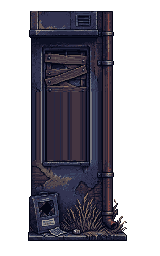
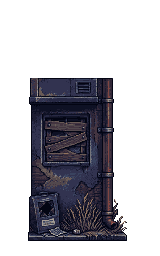
Revert wall-panel height stretching (a595f6b) — Chief wants new art, not stretched art
Reverts the 20 nc_building_wall PNGs + their manifest trim entries back
to the bottom-aligned-only state (779d95c): each panel keeps its own
real height (132-230px content), bottom edges still aligned
(bottom_pad=15 across the family, unchanged from the earlier fix).

The uniform-height version self-sourced body-filler by duplicating a
flat texture row inside each panel — technically worked and verified
visually, but Chief does not want stretched/patched existing art.
Correct path forward is new PixelLab-generated filler/transition
pieces (per-family tileable body strips), not pixel-duplication on
existing panels. That generation work is next, pending Chief's call on
target height and per-family vs universal filler style.

run_all.mjs: 2341 passed / 87 failed — same known baseline (Chief's own
live level1 Builder saves shift fixture-dependent prop_sources
assertions; unrelated to this revert).

Changed region(s): [[0.1562, 0.0312, 0.7188, 0.625]]

diff --git a/editor.html b/editor.html
@@ -231,7 +231,7 @@
   #parity-status { font-family:monospace; font-size:10px; letter-spacing:0.3px; line-height:1.6; margin-bottom:6px; }
 
 </style>
-<link rel="stylesheet" href="editor/workspace.css?v=37b97cc7c08136d8">
+<link rel="stylesheet" href="editor/workspace.css?v=e23c67e3d248f550">
 </head>
 <body>
 <div id="editor-root">
@@ -622,50 +622,50 @@
 <script type="importmap">
 {
   "imports": {
-    "./editor/actions.js": "./editor/actions.js?v=37b97cc7c08136d8",
-    "./editor/assets.js": "./editor/assets.js?v=37b97cc7c08136d8",
-    "./editor/buildinfo.js": "./editor/buildinfo.js?v=37b97cc7c08136d8",
-    "./editor/clipboard.js": "./editor/clipboard.js?v=37b97cc7c08136d8",
-    "./editor/facade.js": "./editor/facade.js?v=37b97cc7c08136d8",
-    "./editor/generator.js": "./editor/generator.js?v=37b97cc7c08136d8",
-    "./editor/hero-lab.js": "./editor/hero-lab.js?v=37b97cc7c08136d8",
-    "./editor/history.js": "./editor/history.js?v=37b97cc7c08136d8",
-    "./editor/level-shape.js": "./editor/level-shape.js?v=37b97cc7c08136d8",
-    "./editor/localstore.js": "./editor/localstore.js?v=37b97cc7c08136d8",
-    "./editor/main.js": "./editor/main.js?v=37b97cc7c08136d8",
-    "./editor/persistence.js": "./editor/persistence.js?v=37b97cc7c08136d8",
-    "./editor/renderer.js": "./editor/renderer.js?v=37b97cc7c08136d8",
-    "./editor/selection.js": "./editor/selection.js?v=37b97cc7c08136d8",
-    "./editor/snapshots.js": "./editor/snapshots.js?v=37b97cc7c08136d8",
-    "./editor/snapshotui.js": "./editor/snapshotui.js?v=37b97cc7c08136d8",
-    "./editor/state.js": "./editor/state.js?v=37b97cc7c08136d8",
-    "./editor/tools.js": "./editor/tools.js?v=37b97cc7c08136d8",
-    "./editor/workspace.js": "./editor/workspace.js?v=37b97cc7c08136d8",
-    "./src_scroll/background.js": "./src_scroll/background.js?v=37b97cc7c08136d8",
-    "./src_scroll/camera.js": "./src_scroll/camera.js?v=37b97cc7c08136d8",
-    "./src_scroll/city-drones.js": "./src_scroll/city-drones.js?v=37b97cc7c08136d8",
-    "./src_scroll/constants.js": "./src_scroll/constants.js?v=37b97cc7c08136d8",
-    "./src_scroll/drone-weapons.js": "./src_scroll/drone-weapons.js?v=37b97cc7c08136d8",
-    "./src_scroll/electricity.js": "./src_scroll/electricity.js?v=37b97cc7c08136d8",
-    "./src_scroll/energy-hud.js": "./src_scroll/energy-hud.js?v=37b97cc7c08136d8",
-    "./src_scroll/entities.js": "./src_scroll/entities.js?v=37b97cc7c08136d8",
-    "./src_scroll/hero-render.js": "./src_scroll/hero-render.js?v=37b97cc7c08136d8",
-    "./src_scroll/hero-sprites.js": "./src_scroll/hero-sprites.js?v=37b97cc7c08136d8",
-    "./src_scroll/input.js": "./src_scroll/input.js?v=37b97cc7c08136d8",
-    "./src_scroll/level.js": "./src_scroll/level.js?v=37b97cc7c08136d8",
-    "./src_scroll/levelsig.js": "./src_scroll/levelsig.js?v=37b97cc7c08136d8",
-    "./src_scroll/main.js": "./src_scroll/main.js?v=37b97cc7c08136d8",
-    "./src_scroll/player.js": "./src_scroll/player.js?v=37b97cc7c08136d8",
-    "./src_scroll/render.js": "./src_scroll/render.js?v=37b97cc7c08136d8",
-    "./src_scroll/source-visuals.js": "./src_scroll/source-visuals.js?v=37b97cc7c08136d8",
-    "./src_scroll/sprites.js": "./src_scroll/sprites.js?v=37b97cc7c08136d8",
-    "./src_scroll/terrain-policy.js": "./src_scroll/terrain-policy.js?v=37b97cc7c08136d8",
-    "./src_scroll/ui.js": "./src_scroll/ui.js?v=37b97cc7c08136d8",
-    "./src_scroll/viewport.js": "./src_scroll/viewport.js?v=37b97cc7c08136d8"
+    "./editor/actions.js": "./editor/actions.js?v=e23c67e3d248f550",
+    "./editor/assets.js": "./editor/assets.js?v=e23c67e3d248f550",
+    "./editor/buildinfo.js": "./editor/buildinfo.js?v=e23c67e3d248f550",
+    "./editor/clipboard.js": "./editor/clipboard.js?v=e23c67e3d248f550",
+    "./editor/facade.js": "./editor/facade.js?v=e23c67e3d248f550",
+    "./editor/generator.js": "./editor/generator.js?v=e23c67e3d248f550",
+    "./editor/hero-lab.js": "./editor/hero-lab.js?v=e23c67e3d248f550",
+    "./editor/history.js": "./editor/history.js?v=e23c67e3d248f550",
+    "./editor/level-shape.js": "./editor/level-shape.js?v=e23c67e3d248f550",
+    "./editor/localstore.js": "./editor/localstore.js?v=e23c67e3d248f550",
+    "./editor/main.js": "./editor/main.js?v=e23c67e3d248f550",
+    "./editor/persistence.js": "./editor/persistence.js?v=e23c67e3d248f550",
+    "./editor/renderer.js": "./editor/renderer.js?v=e23c67e3d248f550",
+    "./editor/selection.js": "./editor/selection.js?v=e23c67e3d248f550",
+    "./editor/snapshots.js": "./editor/snapshots.js?v=e23c67e3d248f550",
+    "./editor/snapshotui.js": "./editor/snapshotui.js?v=e23c67e3d248f550",
+    "./editor/state.js": "./editor/state.js?v=e23c67e3d248f550",
+    "./editor/tools.js": "./editor/tools.js?v=e23c67e3d248f550",
+    "./editor/workspace.js": "./editor/workspace.js?v=e23c67e3d248f550",
+    "./src_scroll/background.js": "./src_scroll/background.js?v=e23c67e3d248f550",
+    "./src_scroll/camera.js": "./src_scroll/camera.js?v=e23c67e3d248f550",
+    "./src_scroll/city-drones.js": "./src_scroll/city-drones.js?v=e23c67e3d248f550",
+    "./src_scroll/constants.js": "./src_scroll/constants.js?v=e23c67e3d248f550",
+    "./src_scroll/drone-weapons.js": "./src_scroll/drone-weapons.js?v=e23c67e3d248f550",
+    "./src_scroll/electricity.js": "./src_scroll/electricity.js?v=e23c67e3d248f550",
+    "./src_scroll/energy-hud.js": "./src_scroll/energy-hud.js?v=e23c67e3d248f550",
+    "./src_scroll/entities.js": "./src_scroll/entities.js?v=e23c67e3d248f550",
+    "./src_scroll/hero-render.js": "./src_scroll/hero-render.js?v=e23c67e3d248f550",
+    "./src_scroll/hero-sprites.js": "./src_scroll/hero-sprites.js?v=e23c67e3d248f550",
+    "./src_scroll/input.js": "./src_scroll/input.js?v=e23c67e3d248f550",
+    "./src_scroll/level.js": "./src_scroll/level.js?v=e23c67e3d248f550",
+    "./src_scroll/levelsig.js": "./src_scroll/levelsig.js?v=e23c67e3d248f550",
+    "./src_scroll/main.js": "./src_scroll/main.js?v=e23c67e3d248f550",
+    "./src_scroll/player.js": "./src_scroll/player.js?v=e23c67e3d248f550",
+    "./src_scroll/render.js": "./src_scroll/render.js?v=e23c67e3d248f550",
+    "./src_scroll/source-visuals.js": "./src_scroll/source-visuals.js?v=e23c67e3d248f550",
+    "./src_scroll/sprites.js": "./src_scroll/sprites.js?v=e23c67e3d248f550",
+    "./src_scroll/terrain-policy.js": "./src_scroll/terrain-policy.js?v=e23c67e3d248f550",
+    "./src_scroll/ui.js": "./src_scroll/ui.js?v=e23c67e3d248f550",
+    "./src_scroll/viewport.js": "./src_scroll/viewport.js?v=e23c67e3d248f550"
   }
 }
 </script>
 <!-- END GENERATED EDITOR MODULE VERSIONS -->
-<script type="module" src="editor/main.js?v=37b97cc7c08136d8"></script>
+<script type="module" src="editor/main.js?v=e23c67e3d248f550"></script>
 </body>
 </html>

diff --git a/hero-lab.html b/hero-lab.html
@@ -37,50 +37,50 @@
 <script type="importmap">
 {
   "imports": {
-    "./editor/actions.js": "./editor/actions.js?v=37b97cc7c08136d8",
-    "./editor/assets.js": "./editor/assets.js?v=37b97cc7c08136d8",
-    "./editor/buildinfo.js": "./editor/buildinfo.js?v=37b97cc7c08136d8",
-    "./editor/clipboard.js": "./editor/clipboard.js?v=37b97cc7c08136d8",
-    "./editor/facade.js": "./editor/facade.js?v=37b97cc7c08136d8",
-    "./editor/generator.js": "./editor/generator.js?v=37b97cc7c08136d8",
-    "./editor/hero-lab.js": "./editor/hero-lab.js?v=37b97cc7c08136d8",
-    "./editor/history.js": "./editor/history.js?v=37b97cc7c08136d8",
-    "./editor/level-shape.js": "./editor/level-shape.js?v=37b97cc7c08136d8",
-    "./editor/localstore.js": "./editor/localstore.js?v=37b97cc7c08136d8",
-    "./editor/main.js": "./editor/main.js?v=37b97cc7c08136d8",
-    "./editor/persistence.js": "./editor/persistence.js?v=37b97cc7c08136d8",
-    "./editor/renderer.js": "./editor/renderer.js?v=37b97cc7c08136d8",
-    "./editor/selection.js": "./editor/selection.js?v=37b97cc7c08136d8",
-    "./editor/snapshots.js": "./editor/snapshots.js?v=37b97cc7c08136d8",
-    "./editor/snapshotui.js": "./editor/snapshotui.js?v=37b97cc7c08136d8",
-    "./editor/state.js": "./editor/state.js?v=37b97cc7c08136d8",
-    "./editor/tools.js": "./editor/tools.js?v=37b97cc7c08136d8",
-    "./editor/workspace.js": "./editor/workspace.js?v=37b97cc7c08136d8",
-    "./src_scroll/background.js": "./src_scroll/background.js?v=37b97cc7c08136d8",
-    "./src_scroll/camera.js": "./src_scroll/camera.js?v=37b97cc7c08136d8",
-    "./src_scroll/city-drones.js": "./src_scroll/city-drones.js?v=37b97cc7c08136d8",
-    "./src_scroll/constants.js": "./src_scroll/constants.js?v=37b97cc7c08136d8",
-    "./src_scroll/drone-weapons.js": "./src_scroll/drone-weapons.js?v=37b97cc7c08136d8",
-    "./src_scroll/electricity.js": "./src_scroll/electricity.js?v=37b97cc7c08136d8",
-    "./src_scroll/energy-hud.js": "./src_scroll/energy-hud.js?v=37b97cc7c08136d8",
-    "./src_scroll/entities.js": "./src_scroll/entities.js?v=37b97cc7c08136d8",
-    "./src_scroll/hero-render.js": "./src_scroll/hero-render.js?v=37b97cc7c08136d8",
-    "./src_scroll/hero-sprites.js": "./src_scroll/hero-sprites.js?v=37b97cc7c08136d8",
-    "./src_scroll/input.js": "./src_scroll/input.js?v=37b97cc7c08136d8",
-    "./src_scroll/level.js": "./src_scroll/level.js?v=37b97cc7c08136d8",
-    "./src_scroll/levelsig.js": "./src_scroll/levelsig.js?v=37b97cc7c08136d8",
-    "./src_scroll/main.js": "./src_scroll/main.js?v=37b97cc7c08136d8",
-    "./src_scroll/player.js": "./src_scroll/player.js?v=37b97cc7c08136d8",
-    "./src_scroll/render.js": "./src_scroll/render.js?v=37b97cc7c08136d8",
-    "./src_scroll/source-visuals.js": "./src_scroll/source-visuals.js?v=37b97cc7c08136d8",
-    "./src_scroll/sprites.js": "./src_scroll/sprites.js?v=37b97cc7c08136d8",
-    "./src_scroll/terrain-policy.js": "./src_scroll/terrain-policy.js?v=37b97cc7c08136d8",
-    "./src_scroll/ui.js": "./src_scroll/ui.js?v=37b97cc7c08136d8",
-    "./src_scroll/viewport.js": "./src_scroll/viewport.js?v=37b97cc7c08136d8"
+    "./editor/actions.js": "./editor/actions.js?v=e23c67e3d248f550",
+    "./editor/assets.js": "./editor/assets.js?v=e23c67e3d248f550",
+    "./editor/buildinfo.js": "./editor/buildinfo.js?v=e23c67e3d248f550",
+    "./editor/clipboard.js": "./editor/clipboard.js?v=e23c67e3d248f550",
+    "./editor/facade.js": "./editor/facade.js?v=e23c67e3d248f550",
+    "./editor/generator.js": "./editor/generator.js?v=e23c67e3d248f550",
+    "./editor/hero-lab.js": "./editor/hero-lab.js?v=e23c67e3d248f550",
+    "./editor/history.js": "./editor/history.js?v=e23c67e3d248f550",
+    "./editor/level-shape.js": "./editor/level-shape.js?v=e23c67e3d248f550",
+    "./editor/localstore.js": "./editor/localstore.js?v=e23c67e3d248f550",
+    "./editor/main.js": "./editor/main.js?v=e23c67e3d248f550",
+    "./editor/persistence.js": "./editor/persistence.js?v=e23c67e3d248f550",
+    "./editor/renderer.js": "./editor/renderer.js?v=e23c67e3d248f550",
+    "./editor/selection.js": "./editor/selection.js?v=e23c67e3d248f550",
+    "./editor/snapshots.js": "./editor/snapshots.js?v=e23c67e3d248f550",
+    "./editor/snapshotui.js": "./editor/snapshotui.js?v=e23c67e3d248f550",
+    "./editor/state.js": "./editor/state.js?v=e23c67e3d248f550",
+    "./editor/tools.js": "./editor/tools.js?v=e23c67e3d248f550",
+    "./editor/workspace.js": "./editor/workspace.js?v=e23c67e3d248f550",
+    "./src_scroll/background.js": "./src_scroll/background.js?v=e23c67e3d248f550",
+    "./src_scroll/camera.js": "./src_scroll/camera.js?v=e23c67e3d248f550",
+    "./src_scroll/city-drones.js": "./src_scroll/city-drones.js?v=e23c67e3d248f550",
+    "./src_scroll/constants.js": "./src_scroll/constants.js?v=e23c67e3d248f550",
+    "./src_scroll/drone-weapons.js": "./src_scroll/drone-weapons.js?v=e23c67e3d248f550",
+    "./src_scroll/electricity.js": "./src_scroll/electricity.js?v=e23c67e3d248f550",
+    "./src_scroll/energy-hud.js": "./src_scroll/energy-hud.js?v=e23c67e3d248f550",
+    "./src_scroll/entities.js": "./src_scroll/entities.js?v=e23c67e3d248f550",
+    "./src_scroll/hero-render.js": "./src_scroll/hero-render.js?v=e23c67e3d248f550",
+    "./src_scroll/hero-sprites.js": "./src_scroll/hero-sprites.js?v=e23c67e3d248f550",
+    "./src_scroll/input.js": "./src_scroll/input.js?v=e23c67e3d248f550",
+    "./src_scroll/level.js": "./src_scroll/level.js?v=e23c67e3d248f550",
+    "./src_scroll/levelsig.js": "./src_scroll/levelsig.js?v=e23c67e3d248f550",
+    "./src_scroll/main.js": "./src_scroll/main.js?v=e23c67e3d248f550",
+    "./src_scroll/player.js": "./src_scroll/player.js?v=e23c67e3d248f550",
+    "./src_scroll/render.js": "./src_scroll/render.js?v=e23c67e3d248f550",
+    "./src_scroll/source-visuals.js": "./src_scroll/source-visuals.js?v=e23c67e3d248f550",
+    "./src_scroll/sprites.js": "./src_scroll/sprites.js?v=e23c67e3d248f550",
+    "./src_scroll/terrain-policy.js": "./src_scroll/terrain-policy.js?v=e23c67e3d248f550",
+    "./src_scroll/ui.js": "./src_scroll/ui.js?v=e23c67e3d248f550",
+    "./src_scroll/viewport.js": "./src_scroll/viewport.js?v=e23c67e3d248f550"
   }
 }
 </script>
 <!-- END GENERATED HERO LAB MODULE VERSIONS -->
-<script type="module" src="editor/hero-lab.js?v=37b97cc7c08136d8"></script>
+<script type="module" src="editor/hero-lab.js?v=e23c67e3d248f550"></script>
 </body>
 </html>

diff --git a/index.html b/index.html
@@ -49,50 +49,50 @@
 <script type="importmap">
 {
   "imports": {
-    "./editor/actions.js": "./editor/actions.js?v=37b97cc7c08136d8",
-    "./editor/assets.js": "./editor/assets.js?v=37b97cc7c08136d8",
-    "./editor/buildinfo.js": "./editor/buildinfo.js?v=37b97cc7c08136d8",
-    "./editor/clipboard.js": "./editor/clipboard.js?v=37b97cc7c08136d8",
-    "./editor/facade.js": "./editor/facade.js?v=37b97cc7c08136d8",
-    "./editor/generator.js": "./editor/generator.js?v=37b97cc7c08136d8",
-    "./editor/hero-lab.js": "./editor/hero-lab.js?v=37b97cc7c08136d8",
-    "./editor/history.js": "./editor/history.js?v=37b97cc7c08136d8",
-    "./editor/level-shape.js": "./editor/level-shape.js?v=37b97cc7c08136d8",
-    "./editor/localstore.js": "./editor/localstore.js?v=37b97cc7c08136d8",
-    "./editor/main.js": "./editor/main.js?v=37b97cc7c08136d8",
-    "./editor/persistence.js": "./editor/persistence.js?v=37b97cc7c08136d8",
-    "./editor/renderer.js": "./editor/renderer.js?v=37b97cc7c08136d8",
-    "./editor/selection.js": "./editor/selection.js?v=37b97cc7c08136d8",
-    "./editor/snapshots.js": "./editor/snapshots.js?v=37b97cc7c08136d8",
-    "./editor/snapshotui.js": "./editor/snapshotui.js?v=37b97cc7c08136d8",
-    "./editor/state.js": "./editor/state.js?v=37b97cc7c08136d8",
-    "./editor/tools.js": "./editor/tools.js?v=37b97cc7c08136d8",
-    "./editor/workspace.js": "./editor/workspace.js?v=37b97cc7c08136d8",
-    "./src_scroll/background.js": "./src_scroll/background.js?v=37b97cc7c08136d8",
-    "./src_scroll/camera.js": "./src_scroll/camera.js?v=37b97cc7c08136d8",
-    "./src_scroll/city-drones.js": "./src_scroll/city-drones.js?v=37b97cc7c08136d8",
-    "./src_scroll/constants.js": "./src_scroll/constants.js?v=37b97cc7c08136d8",
-    "./src_scroll/drone-weapons.js": "./src_scroll/drone-weapons.js?v=37b97cc7c08136d8",
-    "./src_scroll/electricity.js": "./src_scroll/electricity.js?v=37b97cc7c08136d8",
-    "./src_scroll/energy-hud.js": "./src_scroll/energy-hud.js?v=37b97cc7c08136d8",
-    "./src_scroll/entities.js": "./src_scroll/entities.js?v=37b97cc7c08136d8",
-    "./src_scroll/hero-render.js": "./src_scroll/hero-render.js?v=37b97cc7c08136d8",
-    "./src_scroll/hero-sprites.js": "./src_scroll/hero-sprites.js?v=37b97cc7c08136d8",
-    "./src_scroll/input.js": "./src_scroll/input.js?v=37b97cc7c08136d8",
-    "./src_scroll/level.js": "./src_scroll/level.js?v=37b97cc7c08136d8",
-    "./src_scroll/levelsig.js": "./src_scroll/levelsig.js?v=37b97cc7c08136d8",
-    "./src_scroll/main.js": "./src_scroll/main.js?v=37b97cc7c08136d8",
-    "./src_scroll/player.js": "./src_scroll/player.js?v=37b97cc7c08136d8",
-    "./src_scroll/render.js": "./src_scroll/render.js?v=37b97cc7c08136d8",
-    "./src_scroll/source-visuals.js": "./src_scroll/source-visuals.js?v=37b97cc7c08136d8",
-    "./src_scroll/sprites.js": "./src_scroll/sprites.js?v=37b97cc7c08136d8",
-    "./src_scroll/terrain-policy.js": "./src_scroll/terrain-policy.js?v=37b97cc7c08136d8",
-    "./src_scroll/ui.js": "./src_scroll/ui.js?v=37b97cc7c08136d8",
-    "./src_scroll/viewport.js": "./src_scroll/viewport.js?v=37b97cc7c08136d8"
+    "./editor/actions.js": "./editor/actions.js?v=e23c67e3d248f550",
+    "./editor/assets.js": "./editor/assets.js?v=e23c67e3d248f550",
+    "./editor/buildinfo.js": "./editor/buildinfo.js?v=e23c67e3d248f550",
+    "./editor/clipboard.js": "./editor/clipboard.js?v=e23c67e3d248f550",
+    "./editor/facade.js": "./editor/facade.js?v=e23c67e3d248f550",
+    "./editor/generator.js": "./editor/generator.js?v=e23c67e3d248f550",
+    "./editor/hero-lab.js": "./editor/hero-lab.js?v=e23c67e3d248f550",
+    "./editor/history.js": "./editor/history.js?v=e23c67e3d248f550",
+    "./editor/level-shape.js": "./editor/level-shape.js?v=e23c67e3d248f550",
+    "./editor/localstore.js": "./editor/localstore.js?v=e23c67e3d248f550",
+    "./editor/main.js": "./editor/main.js?v=e23c67e3d248f550",
+    "./editor/persistence.js": "./editor/persistence.js?v=e23c67e3d248f550",
+    "./editor/renderer.js": "./editor/renderer.js?v=e23c67e3d248f550",
+    "./editor/selection.js": "./editor/selection.js?v=e23c67e3d248f550",
+    "./editor/snapshots.js": "./editor/snapshots.js?v=e23c67e3d248f550",
+    "./editor/snapshotui.js": "./editor/snapshotui.js?v=e23c67e3d248f550",
+    "./editor/state.js": "./editor/state.js?v=e23c67e3d248f550",
+    "./editor/tools.js": "./editor/tools.js?v=e23c67e3d248f550",
+    "./editor/workspace.js": "./editor/workspace.js?v=e23c67e3d248f550",
+    "./src_scroll/background.js": "./src_scroll/background.js?v=e23c67e3d248f550",
+    "./src_scroll/camera.js": "./src_scroll/camera.js?v=e23c67e3d248f550",
+    "./src_scroll/city-drones.js": "./src_scroll/city-drones.js?v=e23c67e3d248f550",
+    "./src_scroll/constants.js": "./src_scroll/constants.js?v=e23c67e3d248f550",
+    "./src_scroll/drone-weapons.js": "./src_scroll/drone-weapons.js?v=e23c67e3d248f550",
+    "./src_scroll/electricity.js": "./src_scroll/electricity.js?v=e23c67e3d248f550",
+    "./src_scroll/energy-hud.js": "./src_scroll/energy-hud.js?v=e23c67e3d248f550",
+    "./src_scroll/entities.js": "./src_scroll/entities.js?v=e23c67e3d248f550",
+    "./src_scroll/hero-render.js": "./src_scroll/hero-render.js?v=e23c67e3d248f550",
+    "./src_scroll/hero-sprites.js": "./src_scroll/hero-sprites.js?v=e23c67e3d248f550",
+    "./src_scroll/input.js": "./src_scroll/input.js?v=e23c67e3d248f550",
+    "./src_scroll/level.js": "./src_scroll/level.js?v=e23c67e3d248f550",
+    "./src_scroll/levelsig.js": "./src_scroll/levelsig.js?v=e23c67e3d248f550",
+    "./src_scroll/main.js": "./src_scroll/main.js?v=e23c67e3d248f550",
+    "./src_scroll/player.js": "./src_scroll/player.js?v=e23c67e3d248f550",
+    "./src_scroll/render.js": "./src_scroll/render.js?v=e23c67e3d248f550",
+    "./src_scroll/source-visuals.js": "./src_scroll/source-visuals.js?v=e23c67e3d248f550",
+    "./src_scroll/sprites.js": "./src_scroll/sprites.js?v=e23c67e3d248f550",
+    "./src_scroll/terrain-policy.js": "./src_scroll/terrain-policy.js?v=e23c67e3d248f550",
+    "./src_scroll/ui.js": "./src_scroll/ui.js?v=e23c67e3d248f550",
+    "./src_scroll/viewport.js": "./src_scroll/viewport.js?v=e23c67e3d248f550"
   }
 }
 </script>
 <!-- END GENERATED GAME MODULE VERSIONS -->
-<script type="module" src="src_scroll/main.js?v=37b97cc7c08136d8"></script>
+<script type="module" src="src_scroll/main.js?v=e23c67e3d248f550"></script>
 </body>
 </html>

diff --git a/editor/buildinfo.js b/editor/buildinfo.js
@@ -1,9 +1,9 @@
 // GENERATED by scripts/build_info.mjs — do not hand-edit.
 export const BUILD = {
   "branch": "agent/aki-editor",
-  "shaShort": "c1fa5be",
-  "shaFull": "c1fa5be4bb8cce50864d246019f278b41cf3ba99",
+  "shaShort": "b600f8c",
+  "shaFull": "b600f8ca953ea5383ea2ee620cec1c7892b886e4",
   "worktree": "overcharge-aki",
   "dirty": true,
-  "generated": "2026-10-02T23:22:29.851Z"
+  "generated": "2026-10-02T23:26:05.453Z"
 };
